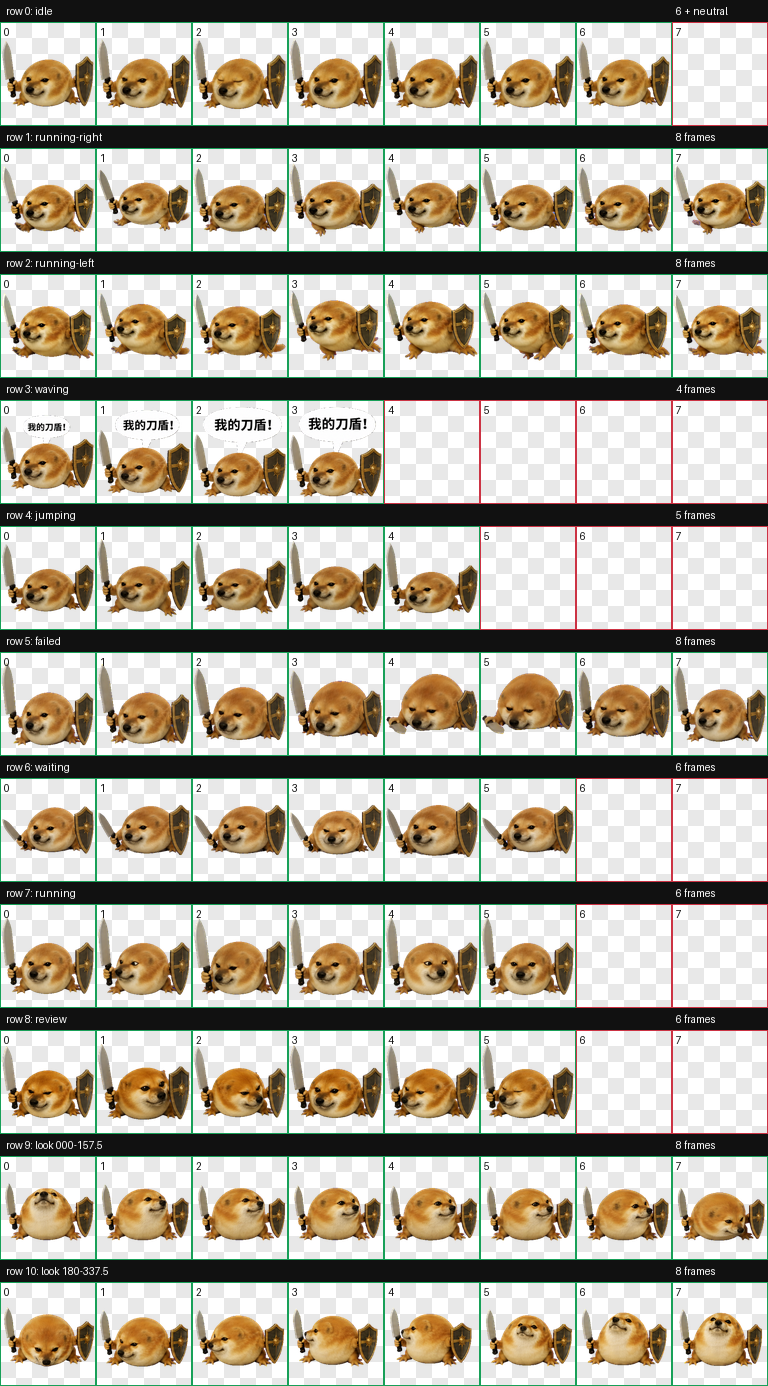
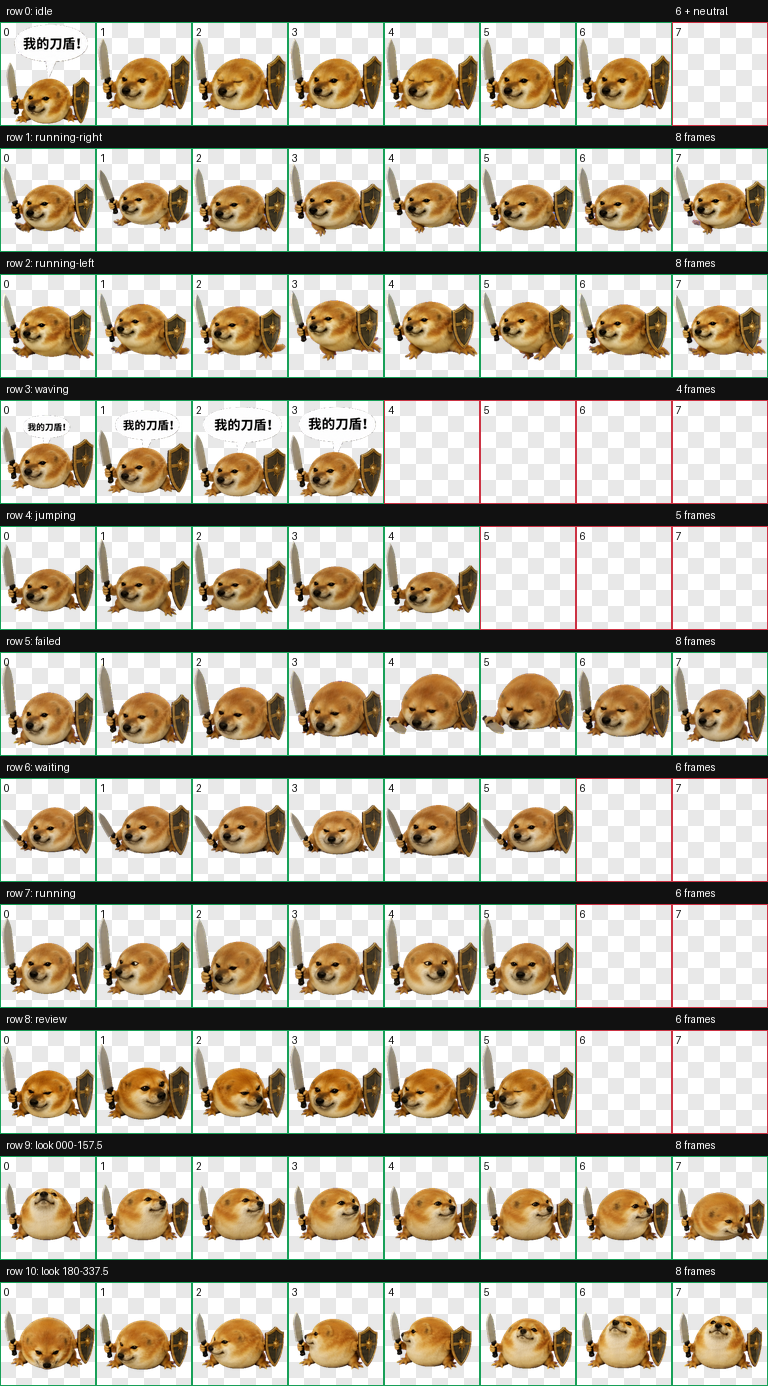
Show greeting on first appearance

Changed region(s): [[0.0, 0.9307, 1.0, 0.9928], [0.4688, 0.031, 0.875, 0.0931], [0.0, 0.0, 0.375, 0.0931]]

diff --git a/README.md b/README.md
@@ -1,6 +1,6 @@
 # 刀盾狗（Codex Pet）
 
-一只低趴、圆滚滚、左手持刀右手举盾的 Codex v2 动态宠物。挥手时会弹出气泡：**“我的刀盾!”**
+一只低趴、圆滚滚、左手持刀右手举盾的 Codex v2 动态宠物。首次出现及挥手时会弹出气泡：**“我的刀盾!”**
 
 ![动作预览](preview/contact-sheet.png)
 
@@ -22,6 +22,7 @@
 - `preview/contact-sheet.png`：动作总览。
 - `preview/look-directions.png`：16 向观察动作预览。
 - `preview/speech-bubble.gif`：带“我的刀盾!”气泡的挥手动画。
+- `preview/first-appearance.gif`：首次出现时的“我的刀盾!”气泡预览。
 
 ## 质量检查
 
@@ -38,4 +39,4 @@
 
 ## English
 
-An unofficial Codex v2 animated pet inspired by the sword-and-shield dog meme. The original reference image is not included. During the waving animation, the speech bubble says “我的刀盾!” (“My sword and shield!”).
+An unofficial Codex v2 animated pet inspired by the sword-and-shield dog meme. The original reference image is not included. On first appearance and during the waving animation, the speech bubble says “我的刀盾!” (“My sword and shield!”).
